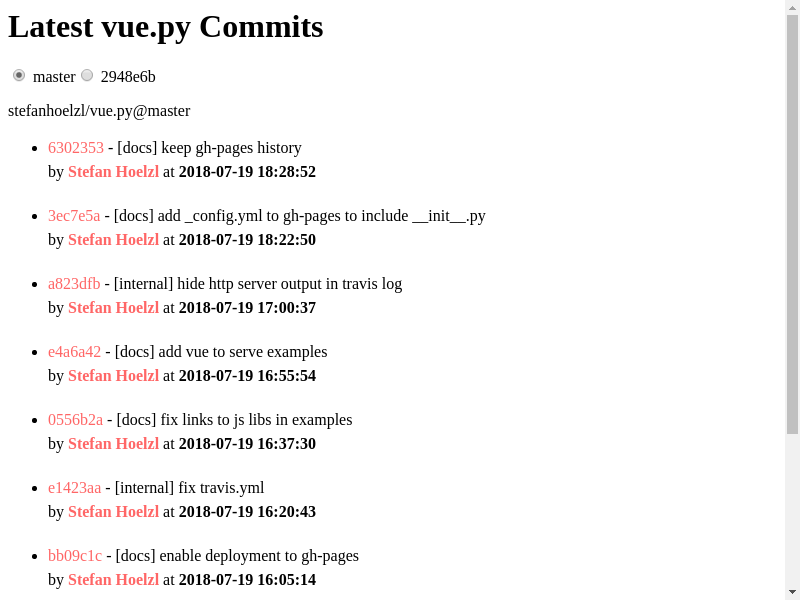
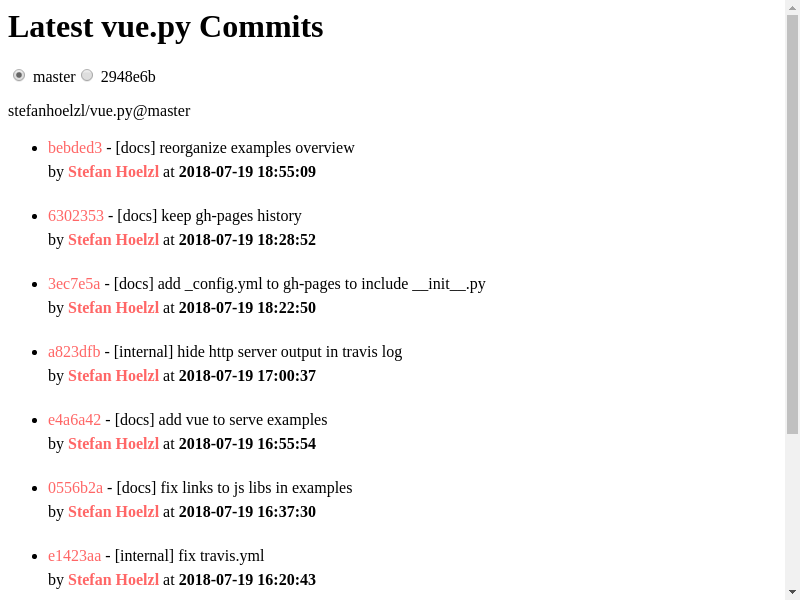
Deploy stefanhoelzl/vue.py to github.com/stefanhoelzl/vue.py.git:gh-pages

diff --git a/examples/index.md b/examples/index.md
@@ -1,0 +1,61 @@
+# Example Gallery
+
+## Markdown Editor
+[Demo](https://stefanhoelzl.github.io/vue.py/examples/markdown_editor)
+
+[Source](https://github.com/stefanhoelzl/vue.py/tree/master/examples/markdown_editor)
+
+![Markdown Editor Screenshot](markdown_editor/screenshot.png)
+
+## GitHub Commits
+[Demo](https://stefanhoelzl.github.io/vue.py/examples/github_commits)
+
+[Source](https://github.com/stefanhoelzl/vue.py/tree/master/examples/github_commits)
+
+![GitHub Commits Screenshot](github_commits/screenshot.png)
+
+## Grid Component
+[Demo](https://stefanhoelzl.github.io/vue.py/examples/grid_component)
+
+[Source](https://github.com/stefanhoelzl/vue.py/tree/master/examples/grid_component)
+
+![Grid Component Screenshot](grid_component/screenshot.png)
+
+## Tree View
+[Demo](https://stefanhoelzl.github.io/vue.py/examples/tree_view)
+
+[Source](https://github.com/stefanhoelzl/vue.py/tree/master/examples/tree_view)
+
+![Tree View Screenshot](tree_view/screenshot.png)
+
+## SVG Graph
+[Demo](https://stefanhoelzl.github.io/vue.py/examples/svg_graph)
+
+[Source](https://github.com/stefanhoelzl/vue.py/tree/master/examples/svg_graph)
+
+![SVG Graph Screenshot](svg_graph/screenshot.png)
+
+## Modal Component
+[Demo](https://stefanhoelzl.github.io/vue.py/examples/modal_component)
+
+[Source](https://github.com/stefanhoelzl/vue.py/tree/master/examples/modal_component)
+
+![Modal Component Screenshot](modal_component/screenshot.png)
+
+## TodoMVC
+[Demo](https://stefanhoelzl.github.io/vue.py/examples/todo_mvc)
+
+[Source](https://github.com/stefanhoelzl/vue.py/tree/master/examples/todo_mvc)
+
+![TodoMVC Screenshot](todo_mvc/screenshot.png)
+
+## Run Examples Local
+
+```bash
+$ git clone https://github.com/stefanhoelzl/vue.py.git
+$ cd vue.py
+$ make env.up
+$ make serve
+```
+Goto [http://localhost:8000/examples] and select the example
+

diff --git a/README.md b/README.md
@@ -39,7 +39,7 @@ See also the [Limitations](docs/pyjs_bridge.md)
 ## Documentation
 Documentation is available [here](docs/index.md).
 
-Examples can be found [here](examples/overview).
+Examples can be found [here](examples/index.md).
 These are vue.py versions of the [Vue.js examples](https://vuejs.org/v2/examples/)
 
 
